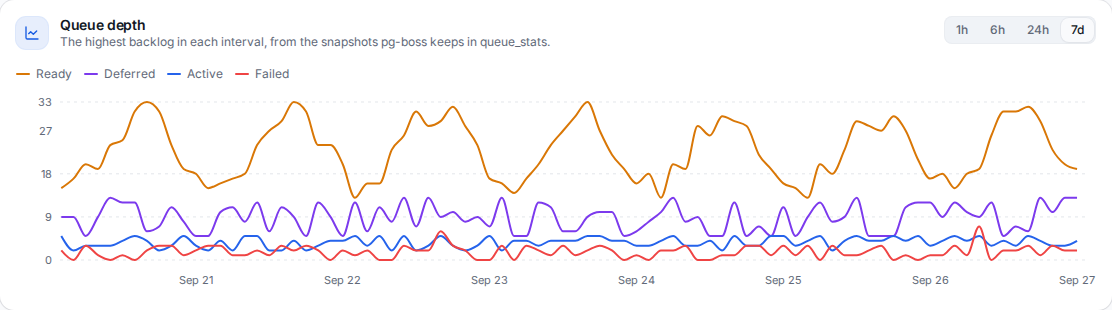
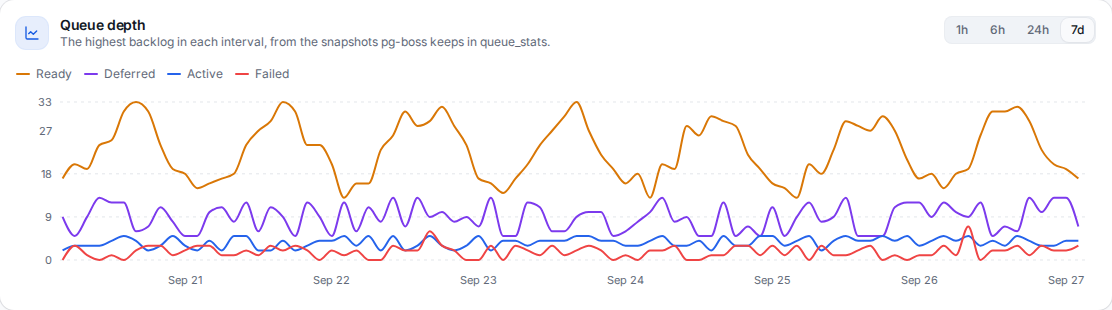
docs(pg-boss): drop the experimental status from the docs, README and skill
The pg-boss page gains a Stability section (stable since 2.4.0, semver,
pg-boss ^12.24.0 on schemas 35 to 42, newer schemas probed). The NestJS
section is now "pg-boss board" and every link to its old
#pg-boss-board-experimental anchor points at #pg-boss-board. The README,
CLI, Docker and playground guides, recipes, sidebar, demo links, agent
skill and CLAUDE.md follow, and the pg-boss screenshots are regenerated
without the badge.

diff --git a/website/rspress.config.ts b/website/rspress.config.ts
@@ -30,7 +30,7 @@ export default defineConfig({
   title: 'Worker Manager',
   logoText: 'Worker Manager',
   logo: '/logo.svg',
-  description: 'Dashboard for BullMQ and Bull job queues, plus an experimental pg-boss engine.',
+  description: 'Dashboard for BullMQ and Bull job queues, plus a pg-boss engine.',
   base: '/worker-manager/',
   icon: '/favicon.ico',
   outDir: 'doc_build',
@@ -74,7 +74,7 @@ export default defineConfig({
             { text: 'Bull', link: '/queue-adapters/bull' },
             { text: 'BullMQ', link: '/queue-adapters/bullmq' },
             { text: 'BullMQ Pro', link: '/queue-adapters/bullmq-pro' },
-            { text: 'pg-boss (experimental)', link: '/queue-adapters/pg-boss' },
+            { text: 'pg-boss', link: '/queue-adapters/pg-boss' },
           ],
         },
         {

diff --git a/website/demo/src/mocks/handlers.ts b/website/demo/src/mocks/handlers.ts
@@ -131,7 +131,7 @@ const mockAdapters = state.queues.map((q) => {
 // carries the same list in its uiConfig (rsbuild.config.ts), which is the copy the UI reads.
 const miscLinks = [
   { text: 'BullMQ board', url: '/worker-manager/demo/' },
-  { text: 'pg-boss board (experimental)', url: '/worker-manager/demo/pg-boss/' },
+  { text: 'pg-boss board', url: '/worker-manager/demo/pg-boss/' },
 ];
 
 const serverAdapter = new MSWServerAdapter();

diff --git a/website/demo/rsbuild.config.ts b/website/demo/rsbuild.config.ts
@@ -9,7 +9,7 @@ const PGBOSS_ENTRY = 'pg-boss/index';
 // The same header menu on both boards, so a visitor can hop between the two engines.
 const miscLinks = [
   { text: 'BullMQ board', url: DEMO_BASE },
-  { text: 'pg-boss board (experimental)', url: PGBOSS_BASE },
+  { text: 'pg-boss board', url: PGBOSS_BASE },
 ];
 
 const sharedUiConfig = {

diff --git a/README.md b/README.md
@@ -1,6 +1,6 @@
 # <img alt="Worker Manager" src="https://raw.githubusercontent.com/naldomadeira/worker-manager/main/packages/ui/src/static/images/logo.svg" width="35px" /> Worker Manager
 
-A modern dashboard for [BullMQ](https://github.com/taskforcesh/bullmq) and [Bull](https://github.com/OptimalBits/bull) job queues, on **Redis or PostgreSQL**, plus an experimental [pg-boss](https://github.com/timgit/pg-boss) engine, with **authentication built in**. Mount it in your NestJS, Express, Fastify or Next.js app, or run it standalone from the CLI or Docker.
+A modern dashboard for [BullMQ](https://github.com/taskforcesh/bullmq) and [Bull](https://github.com/OptimalBits/bull) job queues, on **Redis or PostgreSQL**, plus a [pg-boss](https://github.com/timgit/pg-boss) engine, with **authentication built in**. Mount it in your NestJS, Express, Fastify or Next.js app, or run it standalone from the CLI or Docker.
 
 > Worker Manager is a fork of the open-source bull-board project (MIT), rebuilt with a shadcn/ui + Tailwind CSS interface, first-class authentication and a richer NestJS module. Migrating means a scope rename, `@bull-board/*` → `@worker-manager/*`, plus the v2.0 product rename (`createBullBoard` → `createWorkerManagerBoard`, `BullBoardModule` → `WorkerManagerModule`, the `worker-manager` CLI binary and `WORKER_MANAGER_*` env vars); see the [v2.0.0 changelog](./CHANGELOG.md) for the full list.
 
@@ -45,7 +45,7 @@ A modern dashboard for [BullMQ](https://github.com/taskforcesh/bullmq) and [Bull
 
 <sub>Light and dark ship together, and this picks whichever you are reading in.</sub>
 
-[What it does](#what-it-does) · [Try it](#try-it) · [Quick start](#quick-start) · [AI agents](#use-it-with-an-ai-agent) · [Authentication](#authentication) · [PostgreSQL](#postgresql) · [pg-boss](#pg-boss-experimental) · [Packages](#packages) · [Contributing](#contributing)
+[What it does](#what-it-does) · [Try it](#try-it) · [Quick start](#quick-start) · [AI agents](#use-it-with-an-ai-agent) · [Authentication](#authentication) · [PostgreSQL](#postgresql) · [pg-boss](#pg-boss) · [Packages](#packages) · [Contributing](#contributing)
 
 ## What it does
 
@@ -58,7 +58,7 @@ Worker Manager shows your queues, jobs, schedulers and history in the browser, a
 | BullMQ `>= 5.56` and v6 | Redis (standalone, Sentinel, Cluster) | Stable |
 | BullMQ v6 | PostgreSQL (`createPostgresBackend`) | Stable |
 | Bull (and BullMQ Pro) | Redis | Stable |
-| pg-boss `>= 12.24` (Node.js `>= 22.12`) | PostgreSQL | **Experimental**: screens and `/api/pg-boss` may change in a minor |
+| pg-boss `>= 12.24` (Node.js `>= 22.12`) | PostgreSQL | Stable since 2.4.0 |
 
 **Authentication.** `@worker-manager/auth` protects the page, the API and the assets on every adapter, the NestJS module and the CLI:
 
@@ -77,7 +77,7 @@ Worker Manager shows your queues, jobs, schedulers and history in the browser, a
 - **Read-only mode**, per-request **visibility guard**, and access-control hooks per API call.
 - **Whitelabel** theme tokens (shadcn contract), title, logo and environment badge; **12 languages**; light, dark and system themes; a phone layout.
 
-**The pg-boss board (experimental).** Jobs in all six pg-boss states, cron and RRULE schedules, dead-letter origins, pg-boss's persisted warnings, a queue depth chart, bulk retry/cancel/resume/delete, job lookup by id from the command palette, and schema tolerance: a newer pg-boss schema is probed, not refused, and whatever it lacks is switched off and named. It never migrates, supervises or creates anything in your database.
+**The pg-boss board.** Jobs in all six pg-boss states, cron and RRULE schedules, dead-letter origins, pg-boss's persisted warnings, a queue depth chart, bulk retry/cancel/resume/delete, job lookup by id from the command palette, and schema tolerance: a newer pg-boss schema is probed, not refused, and whatever it lacks is switched off and named. It never migrates, supervises or creates anything in your database.
 
 **Integrations.** Nine server adapters (Express, Fastify, Koa, Hapi, NestJS, Hono, H3, Elysia, Bun), a NestJS module with platform auto-detection, async config and named boards, a Next.js recipe, the `worker-manager` CLI and the `ghcr.io/naldomadeira/worker-manager` Docker image.
 
@@ -131,7 +131,7 @@ export class AppModule {}
 
 Open `http://localhost:3000/queues`. `forRootAsync` (with `useFactory`, `useClass` or `useExisting`), `readOnly`, `enabled`, `title`/`logo`/`theme`, Keycloak and token auth, named boards and PostgreSQL queues are in the [NestJS guide](https://naldomadeira.github.io/worker-manager/server-adapters/nestjs).
 
-### NestJS + pg-boss (experimental)
+### NestJS + pg-boss
 
 Needs Node.js 22.12+ and pg-boss 12.24+. Your app keeps starting pg-boss; the board reuses that instance.
 
@@ -166,7 +166,7 @@ await app.listen(3000); // http://localhost:3000/pg-boss
 export class AppModule {}
 ```
 
-Already have a BullMQ board? Keep it and give this one a `name: 'pgboss'`: two boards, two routes, one app. `pgBoss.useExisting` takes a provider token instead of `instance`. See the [NestJS pg-boss board](https://naldomadeira.github.io/worker-manager/server-adapters/nestjs#pg-boss-board-experimental) and the runnable [`examples/nestjs/pg-boss`](./examples/nestjs/pg-boss).
+Already have a BullMQ board? Keep it and give this one a `name: 'pgboss'`: two boards, two routes, one app. `pgBoss.useExisting` takes a provider token instead of `instance`. See the [NestJS pg-boss board](https://naldomadeira.github.io/worker-manager/server-adapters/nestjs#pg-boss-board) and the runnable [`examples/nestjs/pg-boss`](./examples/nestjs/pg-boss).
 
 ### Next.js (App Router)
 
@@ -251,7 +251,7 @@ Then ask for it in plain words ("add a queue dashboard behind Keycloak to this N
 |---|---|
 | [<img alt="Schedulers" src="https://raw.githubusercontent.com/naldomadeira/worker-manager/main/website/docs/public/screenshots/schedulers-page.png" width="420" />](https://naldomadeira.github.io/worker-manager/guide/exploring-the-dashboard)<br/>Every repeatable job across every queue, with its pattern or interval, when it next fires and when it last ran. Edit or remove one in place. | [<img alt="Historical metrics" src="https://raw.githubusercontent.com/naldomadeira/worker-manager/main/website/docs/public/screenshots/historical-metrics-page.png" width="420" />](https://naldomadeira.github.io/worker-manager/recipes/historical-metrics)<br/>Opt-in throughput and latency history over 90 days, per queue and board-wide. The storage panel tells you what keeping it costs. |
 | [<img alt="Job flows" src="https://raw.githubusercontent.com/naldomadeira/worker-manager/main/website/docs/public/screenshots/flow-tree.png" width="420" />](https://naldomadeira.github.io/worker-manager/recipes/job-logs-and-flows)<br/>Parent and child jobs as one pannable graph, even when the children live in other queues, each with its own state and progress. Click a node to inspect it without leaving the page. Per-job logs alongside. | [<img alt="Whitelabel theming" src="https://raw.githubusercontent.com/naldomadeira/worker-manager/main/website/docs/public/screenshots/whitelabel-violet-dark.png" width="420" />](https://naldomadeira.github.io/worker-manager/recipes/whitelabel-theming)<br/>Design tokens named after the shadcn contract. Set `primary` and the focus ring, the sidebar and the selection states all follow it. |
-| [<img alt="pg-boss overview" src="https://raw.githubusercontent.com/naldomadeira/worker-manager/main/website/docs/public/screenshots/pgboss-overview.png" width="420" />](https://naldomadeira.github.io/worker-manager/queue-adapters/pg-boss)<br/>The experimental pg-boss board: pg-boss's cached counters as KPI tiles and one card per queue with its policy. | [<img alt="Daily activity" src="https://raw.githubusercontent.com/naldomadeira/worker-manager/main/website/docs/public/screenshots/metrics-activity.png" width="420" />](https://naldomadeira.github.io/worker-manager/guide/exploring-the-dashboard#metrics-history)<br/>Daily activity: completed jobs, failures or the failure rate as a calendar, with the peak day and the average per weekday. |
+| [<img alt="pg-boss overview" src="https://raw.githubusercontent.com/naldomadeira/worker-manager/main/website/docs/public/screenshots/pgboss-overview.png" width="420" />](https://naldomadeira.github.io/worker-manager/queue-adapters/pg-boss)<br/>The pg-boss board: pg-boss's cached counters as KPI tiles and one card per queue with its policy. | [<img alt="Daily activity" src="https://raw.githubusercontent.com/naldomadeira/worker-manager/main/website/docs/public/screenshots/metrics-activity.png" width="420" />](https://naldomadeira.github.io/worker-manager/guide/exploring-the-dashboard#metrics-history)<br/>Daily activity: completed jobs, failures or the failure rate as a calendar, with the peak day and the average per weekday. |
 
 ## Authentication
 
@@ -306,9 +306,9 @@ createWorkerManagerBoard({ queues: [new BullMQAdapter(invoices)], serverAdapter 
 
 The CLI discovers them for you: `npx @worker-manager/cli --postgres postgres://user:pass@host/db`. See the [PostgreSQL recipe](https://naldomadeira.github.io/worker-manager/recipes/postgres-backend).
 
-## pg-boss (experimental)
+## pg-boss
 
-A board runs one engine. Besides BullMQ and Bull, there is now a [pg-boss](https://github.com/timgit/pg-boss) engine, for pg-boss 12.24 and later on Node.js 22.12 and later. It reads the pg-boss tables with plain SQL and writes through the pg-boss API, and never migrates, supervises or creates anything in your database. It is experimental: its screens and its `/api/pg-boss` HTTP contract may still change in a minor release.
+A board runs one engine. Besides BullMQ and Bull, there is a [pg-boss](https://github.com/timgit/pg-boss) engine, for pg-boss 12.24 and later on Node.js 22.12 and later. It reads the pg-boss tables with plain SQL and writes through the pg-boss API, and never migrates, supervises or creates anything in your database. It is stable since 2.4.0 and follows semver like the BullMQ engine: a breaking change to its screens' behaviour or to the `/api/pg-boss` HTTP contract only ships in a major.
 
 ```sh
 npm install @worker-manager/pg-boss

diff --git a/skills/worker-manager/SKILL.md b/skills/worker-manager/SKILL.md
@@ -3,14 +3,14 @@ name: worker-manager
 description: Adds, configures and troubleshoots Worker Manager (@worker-manager/*), a web dashboard for job queues, in a Node.js app. Use when a user wants a queue dashboard, queue UI or job monitoring for BullMQ or Bull on Redis, BullMQ v6 on PostgreSQL, or pg-boss; when mounting it in NestJS, Express, Fastify, Koa, Hapi, Hono, H3, Elysia, Bun or Next.js; when protecting it with auth (Basic, Keycloak/OIDC, token, custom); for read-only boards, historical metrics, the worker-manager CLI or Docker image; or when migrating from bull-board (@bull-board/*).
 license: MIT
 metadata:
-  version: 2.3.0
+  version: 2.4.0
   docs: https://naldomadeira.github.io/worker-manager/
 ---
 
 # Worker Manager
 
 Worker Manager mounts a dashboard for job queues inside an existing server, or runs it standalone
-(CLI, Docker). This skill is a map, written against v2.3.0. The docs are the source of truth for
+(CLI, Docker). This skill is a map, written against v2.4.0. The docs are the source of truth for
 exact option names: when a detail is not here, fetch
 <https://naldomadeira.github.io/worker-manager/llms-full.txt> (whole docs in one file) or
 <https://naldomadeira.github.io/worker-manager/llms.txt> (index) before writing code.
@@ -38,7 +38,7 @@ exact option names: when a detail is not here, fetch
 | Bull (v4) on Redis | BullMQ | `new BullAdapter(queue)` from `@worker-manager/api/bullAdapter` |
 | BullMQ Pro | BullMQ | `BullMQProAdapter` from `@worker-manager/api/bullMQProAdapter` |
 | BullMQ v6 in PostgreSQL (`createPostgresBackend`) | BullMQ | `BullMQAdapter`, same as Redis. See [references/postgres.md](references/postgres.md) |
-| pg-boss (PostgreSQL) | pg-boss, **experimental** | `createPgBossBoard` / NestJS `engine: 'pg-boss'`. See [references/pg-boss.md](references/pg-boss.md) |
+| pg-boss (PostgreSQL) | pg-boss (stable since 2.4.0) | `createPgBossBoard` / NestJS `engine: 'pg-boss'`. See [references/pg-boss.md](references/pg-boss.md) |
 | BullMQ **and** pg-boss | both | Two boards on sibling paths (`/queues`, `/pg-boss`) |
 
 **Server adapter**: NestJS uses `@worker-manager/nestjs` (it picks Express or Fastify itself);
@@ -76,8 +76,8 @@ always-on process plus a `historyProvider` on the board, stored in Redis or Post
 - **BullMQ ≥ 6.3 on PostgreSQL needs its schema**: pass the object connection
   `{ connectionString, migrate: true }` (or run BullMQ's migrations as a deploy step), or it throws
   `SchemaMigrationRequiredError`.
-- **pg-boss needs Node.js ≥ 22.12 and pg-boss ≥ 12.24**, plus `@worker-manager/pg-boss`. Describe
-  the engine as experimental: its screens and `/api/pg-boss` contract may change in a minor.
+- **pg-boss needs Node.js ≥ 22.12 and pg-boss ≥ 12.24**, plus `@worker-manager/pg-boss`. The
+  engine is stable (since 2.4.0) and follows semver like the BullMQ engine.
 - **One engine per board.** BullMQ and pg-boss never share a board; mount two, side by side
   (`/queues` and `/pg-boss`), never one nested inside the other.
 - **The board never migrates the user's pg-boss schema.** It never calls `start()`, `supervise()`
@@ -129,7 +129,7 @@ import { WorkerManagerModule } from '@worker-manager/nestjs';
 export class AppModule {}
 ```
 
-## NestJS + pg-boss (experimental)
+## NestJS + pg-boss
 
 The app starts its own pg-boss and exposes it as a provider; the board reuses it. Add this next to
 an existing BullMQ board as a **named** board, or drop `name` if pg-boss is the only engine.
@@ -183,7 +183,7 @@ createWorkerManagerBoard({ queues: [new BullMQAdapter(emailQueue)], serverAdapte
 await app.register(createFastifyAuthPlugin(serverAdapter.registerPlugin(), auth), { prefix: basePath });
 ```
 
-## Express / Fastify + pg-boss (experimental)
+## Express / Fastify + pg-boss
 
 ```ts
 import { createPgBossBoard } from '@worker-manager/pg-boss';

diff --git a/website/docs/queue-adapters/pg-boss.md b/website/docs/queue-adapters/pg-boss.md
@@ -1,8 +1,4 @@
-# pg-boss (experimental)
-
-::: warning Experimental
-The pg-boss engine is experimental. Its screens and its `/api/pg-boss` HTTP contract may still change in a minor release, until it is declared stable.
-:::
+# pg-boss
 
 [pg-boss](https://github.com/timgit/pg-boss) is a job queue that lives entirely in PostgreSQL. `@worker-manager/pg-boss` mounts a whole board over one pg-boss schema: the same shell, sidebar, command palette, themes and auth as a BullMQ board, with pages built around what pg-boss actually stores. It lists queues with their policy and cached counters, shows jobs in all six pg-boss states, and lets you retry, cancel, resume, delete and send jobs and edit schedules.
 
@@ -27,6 +23,10 @@ If your queues are BullMQ v6 queues stored in PostgreSQL, you don't need this: t
 | pg-boss schema version | 35 to 42 tested (35 is pg-boss 12.24.0, 42 is 12.33.0 and 12.34.0). Newer schemas are read, see [newer pg-boss schemas](#newer-pg-boss-schemas). |
 | Node.js | 22.12 or later, pg-boss's own floor. The rest of Worker Manager stays on Node.js 20. |
 | PostgreSQL | Whatever your pg-boss supports. CockroachDB, YugabyteDB and PGlite are not tested. |
+
+### Stability
+
+The pg-boss engine is stable since Worker Manager 2.4.0 and follows semver like the BullMQ engine: a breaking change to its screens' behaviour or to the `/api/pg-boss` HTTP contract only ships in a major release. That promise covers the supported range above, `pg-boss ^12.24.0` on schemas 35 to 42. A newer schema is not a breaking change either: the board probes it, keeps reading, and switches off and names only what it lacks (see [newer pg-boss schemas](#newer-pg-boss-schemas)).
 
 pg-boss 11 and older use a different schema and are not supported. Schedule previews (the next runs column, and the preview in the schedule editor) and RRULE schedules need pg-boss 12.31 or later. On 12.24 to 12.30 the schedules page still lists and edits cron schedules, with no next runs.
 
@@ -75,7 +75,7 @@ await board.close();
 
 The same thing, elsewhere:
 
-- **NestJS**: `WorkerManagerModule.forRoot({ name: 'pgboss', engine: 'pg-boss', pgBoss: { ... } })`. See [the NestJS pg-boss board](/server-adapters/nestjs#pg-boss-board-experimental).
+- **NestJS**: `WorkerManagerModule.forRoot({ name: 'pgboss', engine: 'pg-boss', pgBoss: { ... } })`. See [the NestJS pg-boss board](/server-adapters/nestjs#pg-boss-board).
 - **CLI**: `npx @worker-manager/cli --pg-boss postgres://app:secret@localhost:5432/app`, on its own or next to a BullMQ board. See [the CLI's pg-boss section](/guide/cli#pg-boss).
 - **Docker**: `WORKER_MANAGER_PGBOSS_URL`. See [Run with Docker](/guide/docker).
 - **Any other framework**: swap `ExpressAdapter` for the [server adapter](/server-adapters/) you use. Nothing else changes.
@@ -280,4 +280,4 @@ Pass no `instance` here: with `readOnly: true` nothing writes, and the board's m
 
 ## HTTP API
 
-A pg-boss board serves its own routes under `/api/pg-boss/*` (plus `/api/metrics/*` with a history provider), and none of the BullMQ `/api/queues` routes. They are listed under the `pg-boss` tag in the [HTTP API reference](/api/). Errors are translation keys, like everywhere else in the API. The contract may change in a minor release while the engine is experimental.
+A pg-boss board serves its own routes under `/api/pg-boss/*` (plus `/api/metrics/*` with a history provider), and none of the BullMQ `/api/queues` routes. They are listed under the `pg-boss` tag in the [HTTP API reference](/api/). Errors are translation keys, like everywhere else in the API. The contract follows semver: a breaking change only ships in a major release (see [stability](#stability)).

diff --git a/CLAUDE.md b/CLAUDE.md
@@ -23,7 +23,7 @@ Yarn 4 workspaces under `packages/*`, plus `playground` (see "Playground"). Key 
 | `express`, `fastify`, `hono`, `koa`, `h3`, `hapi`, `nestjs`, `elysia`, `bun` | Server adapters |
 | `cli` | Standalone `worker-manager` executable, also what the Docker image installs |
 | `metrics` | Opt-in Redis-backed recorder behind the core's `historyProvider` seam |
-| `pg-boss` | Experimental pg-boss engine: a separate board (`createPgBossBoard`) over a pg-boss schema, mounted through the `@worker-manager/api/engine` seam; needs Node >= 22.12 |
+| `pg-boss` | pg-boss engine (stable since 2.4.0): a separate board (`createPgBossBoard`) over a pg-boss schema, mounted through the `@worker-manager/api/engine` seam; needs Node >= 22.12 |
 | `test-utils` | Private (unpublished) in-repo test kit for adapter contract tests |
 
 ## UI conventions
@@ -247,7 +247,7 @@ Request validation is wrapped in `wrapHandler` (`src/hooks.ts`), which runs it a
 `handlerHooks.before` so a visibility guard answers before a 400 can reveal that a hidden route
 exists. Response validation is the same schema, off by default behind `options.validateResponses`.
 
-## pg-boss engine (experimental)
+## pg-boss engine
 
 `@worker-manager/pg-boss` is a second, separate board over a pg-boss schema, not a `BaseAdapter`:
 pg-boss has no pause, logs, progress, workers or rate limit, and has states BullMQ lacks
@@ -284,9 +284,10 @@ queues in one board is out of scope; an app mounts two boards side by side.
   through the `CounterSource` seam and records under `pgboss:<schema>:<queue>`;
   `namespacedHistoryProvider` lets one store serve both boards. Playground mounts both boards
   (`WM_PGBOSS`), and the POC at `../../pocs/bull-board/bullboard-poc` has mode `m8`.
-- **Contract stability.** `/api/pg-boss/*` may change in a minor until it is called stable; the
-  queue-depth history endpoint described in the plan is not implemented yet (the read helper
-  `readPgBossQueueDepth` exists, the route and schema do not).
+- **Contract stability.** The engine is stable since 2.4.0 and follows semver like the BullMQ
+  engine: a breaking change to its screens' behaviour or to `/api/pg-boss/*` only ships in a
+  major, so a response field or route may be added in a minor but never removed or renamed. The
+  queue-depth history is served at `GET /api/pg-boss/queues/:queueName/depth` (since 2.3.0).
 
 ## Adapter contract tests
 

diff --git a/website/docs/recipes/multiple-dashboards.md b/website/docs/recipes/multiple-dashboards.md
@@ -29,7 +29,7 @@ Each adapter is independent. Pass a different UIConfig per instance (`boardTitle
 
 ## BullMQ and pg-boss side by side
 
-A board runs one engine, so an app with BullMQ and [pg-boss](/queue-adapters/pg-boss) queues (experimental) mounts two boards. Give each one a header link to the other with `miscLinks`:
+A board runs one engine, so an app with BullMQ and [pg-boss](/queue-adapters/pg-boss) queues mounts two boards. Give each one a header link to the other with `miscLinks`:
 
 ```ts
 import { createWorkerManagerBoard } from '@worker-manager/api';
@@ -62,7 +62,7 @@ app.use('/pg-boss', pgBossAdapter.getRouter());
 
 Mount them side by side, not one inside the other (`/queues` and `/queues/pg-boss`): on Express the outer router would also answer the inner board's paths. The same goes for the other two ways to do it:
 
-- **NestJS.** Keep the BullMQ board as it is and add a named board with `engine: 'pg-boss'`: `WorkerManagerModule.forRootAsync({ name: 'pgboss', useFactory: (boss) => ({ route: '/pg-boss', engine: 'pg-boss', pgBoss: { instance: boss } }), inject: ['PG_BOSS'] })`. Each named board has its own `route`, `auth` and session cookie. See [several boards](/server-adapters/nestjs#several-boards) and [the pg-boss board](/server-adapters/nestjs#pg-boss-board-experimental).
+- **NestJS.** Keep the BullMQ board as it is and add a named board with `engine: 'pg-boss'`: `WorkerManagerModule.forRootAsync({ name: 'pgboss', useFactory: (boss) => ({ route: '/pg-boss', engine: 'pg-boss', pgBoss: { instance: boss } }), inject: ['PG_BOSS'] })`. Each named board has its own `route`, `auth` and session cookie. See [several boards](/server-adapters/nestjs#several-boards) and [the pg-boss board](/server-adapters/nestjs#pg-boss-board).
 - **CLI and Docker.** Give the CLI a BullMQ source and `--pg-boss <url>`: BullMQ is served at the root and pg-boss under `/pg-boss/` (`--pg-boss-path`), behind one login, and each board's header links to the other. See [next to a BullMQ board](/guide/cli#next-to-a-bullmq-board).
 
 The two boards can share one [historical metrics](/recipes/historical-metrics#pg-boss-queues) store: pg-boss queues are recorded under a `pgboss:<schema>:` prefix, so neither board's totals count the other's jobs.

diff --git a/website/docs/queue-adapters/index.md b/website/docs/queue-adapters/index.md
@@ -1,13 +1,13 @@
 # Queue engines
 
-A board runs one **engine**. The BullMQ engine is the default and has been there all along: it drives Bull, BullMQ and BullMQ Pro queues through queue adapters, on Redis or on PostgreSQL. The pg-boss engine is new and experimental: it mounts a board over a pg-boss schema, with pages of its own. The shell around them (sidebar, command palette, themes, auth, server adapters, NestJS module, CLI) is the same.
+A board runs one **engine**. The BullMQ engine is the default and has been there all along: it drives Bull, BullMQ and BullMQ Pro queues through queue adapters, on Redis or on PostgreSQL. The pg-boss engine, stable since 2.4.0, mounts a board over a pg-boss schema, with pages of its own. The shell around them (sidebar, command palette, themes, auth, server adapters, NestJS module, CLI) is the same.
 
 | Queue system | Engine | Entry point | Docs |
 |-------------|--------|-------------|------|
 | Bull | BullMQ | `BullAdapter` | [Bull →](/queue-adapters/bull) |
 | BullMQ (Redis, or PostgreSQL on v6) | BullMQ | `BullMQAdapter` | [BullMQ →](/queue-adapters/bullmq) |
 | BullMQ Pro | BullMQ | `BullMQProAdapter` | [BullMQ Pro →](/queue-adapters/bullmq-pro) |
-| pg-boss (experimental) | pg-boss | `createPgBossBoard` | [pg-boss →](/queue-adapters/pg-boss) |
+| pg-boss | pg-boss | `createPgBossBoard` | [pg-boss →](/queue-adapters/pg-boss) |
 
 The rest of this page is about the BullMQ engine's queue adapters, which `@worker-manager/api` ships with; third-party queue systems can add their own. The pg-boss engine takes no queue adapters: it lists the queues of its schema itself. See [its page](/queue-adapters/pg-boss).
 

diff --git a/website/docs/server-adapters/nestjs.md b/website/docs/server-adapters/nestjs.md
@@ -76,7 +76,7 @@ export class FeatureModule {}
 | Option | Default | |
 |---|---|---|
 | `name` | none | Registers a [named board](#several-boards) with its own DI tokens, so one app can mount several. |
-| `engine` | `'bullmq'` | `'pg-boss'` mounts a [pg-boss board](#pg-boss-board-experimental) instead of a BullMQ one. |
+| `engine` | `'bullmq'` | `'pg-boss'` mounts a [pg-boss board](#pg-boss-board) instead of a BullMQ one. |
 | `pgBoss` | | Where a pg-boss board reads and writes. Only read with `engine: 'pg-boss'`. |
 | `route` | `'/queues'` | Base path where the dashboard is mounted, relative to the Nest global prefix. |
 | `adapter` | auto-detected | Server adapter class (`ExpressAdapter` or `FastifyAdapter`). When left out, the module asks `HttpAdapterHost` which platform the app runs on and loads `@worker-manager/express` or `@worker-manager/fastify`, failing with an install hint if the package is missing. |
@@ -379,7 +379,7 @@ Each board applies its own `auth` on its own prefix. With Keycloak:
   board's path, unless `auth.cookie.name` is set. Boards never share a session: log in once per
   board. The cookie secret can be the same.
 
-## pg-boss board (experimental)
+## pg-boss board
 
 `engine: 'pg-boss'` mounts a board over a [pg-boss](https://github.com/timgit/pg-boss) schema, with
 the same shell, auth and routing as a BullMQ board. It needs pg-boss 12.24 or later, Node 22.12 or

diff --git a/website/docs/recipes/historical-metrics.md b/website/docs/recipes/historical-metrics.md
@@ -1,6 +1,6 @@
 # Historical metrics
 
-> Applies to: BullMQ, and [pg-boss](#pg-boss-queues) boards (experimental).
+> Applies to: BullMQ and [pg-boss](#pg-boss-queues) boards.
 >
 > Beta: this feature ships in the opt-in `@worker-manager/metrics` package. It is safe to run, but the API and the Redis and PostgreSQL storage layouts may still change in a minor release while it settles, so pin an exact version if you depend on the storage format.
 
@@ -386,8 +386,6 @@ Each row in that table carries a bar scaled against the busiest queue and split 
 Leave `historyProvider` unset and none of this appears; the board behaves exactly as it did before.
 
 ## pg-boss queues
-
-> Experimental, like the [pg-boss engine](/queue-adapters/pg-boss) itself.
 
 pg-boss keeps no per-minute metrics buffer, so there is nothing for the recorder to snapshot. What it does keep is every finished job, with the time it finished, for as long as the queue's `deleteAfterSeconds` allows. `@worker-manager/pg-boss` turns that into the same history a BullMQ board gets: `pgBossMetricsSources` hands the recorder one source per queue, and each source counts the queue's jobs by the minute of `completed_on`.
 

diff --git a/website/docs/guide/playground.md b/website/docs/guide/playground.md
@@ -9,7 +9,7 @@ It brings up:
 - **Redis** for six classic BullMQ queues (`notifications.*`, `payments.*`, `reports.generate`,
   `orders.pipeline`), with flows and two job schedulers.
 - **PostgreSQL** for two BullMQ v6 queues stored in Postgres (`pg.invoices`, `pg.data-exports`).
-- **A second board over pg-boss** at `/pg-boss` (experimental), on a `pgboss` schema in the same
+- **A second board over pg-boss** at `/pg-boss`, on a `pgboss` schema in the same
   PostgreSQL. See [the pg-boss board](#the-pg-boss-board).
 - **Keycloak 26** with a pre-imported realm, a confidential client, and two users.
 - **Synthetic traffic**: workers with random latency, progress, logs and failures, so every view
@@ -122,7 +122,7 @@ WorkerManagerModule.forRoot({
 ```
 
 Each board has a `miscLinks` entry pointing at the other. See
-[the NestJS pg-boss board](../server-adapters/nestjs.md#pg-boss-board-experimental) for every
+[the NestJS pg-boss board](../server-adapters/nestjs.md#pg-boss-board) for every
 option.
 
 See `playground/src/app.module.ts` for the switch between the three modes and
